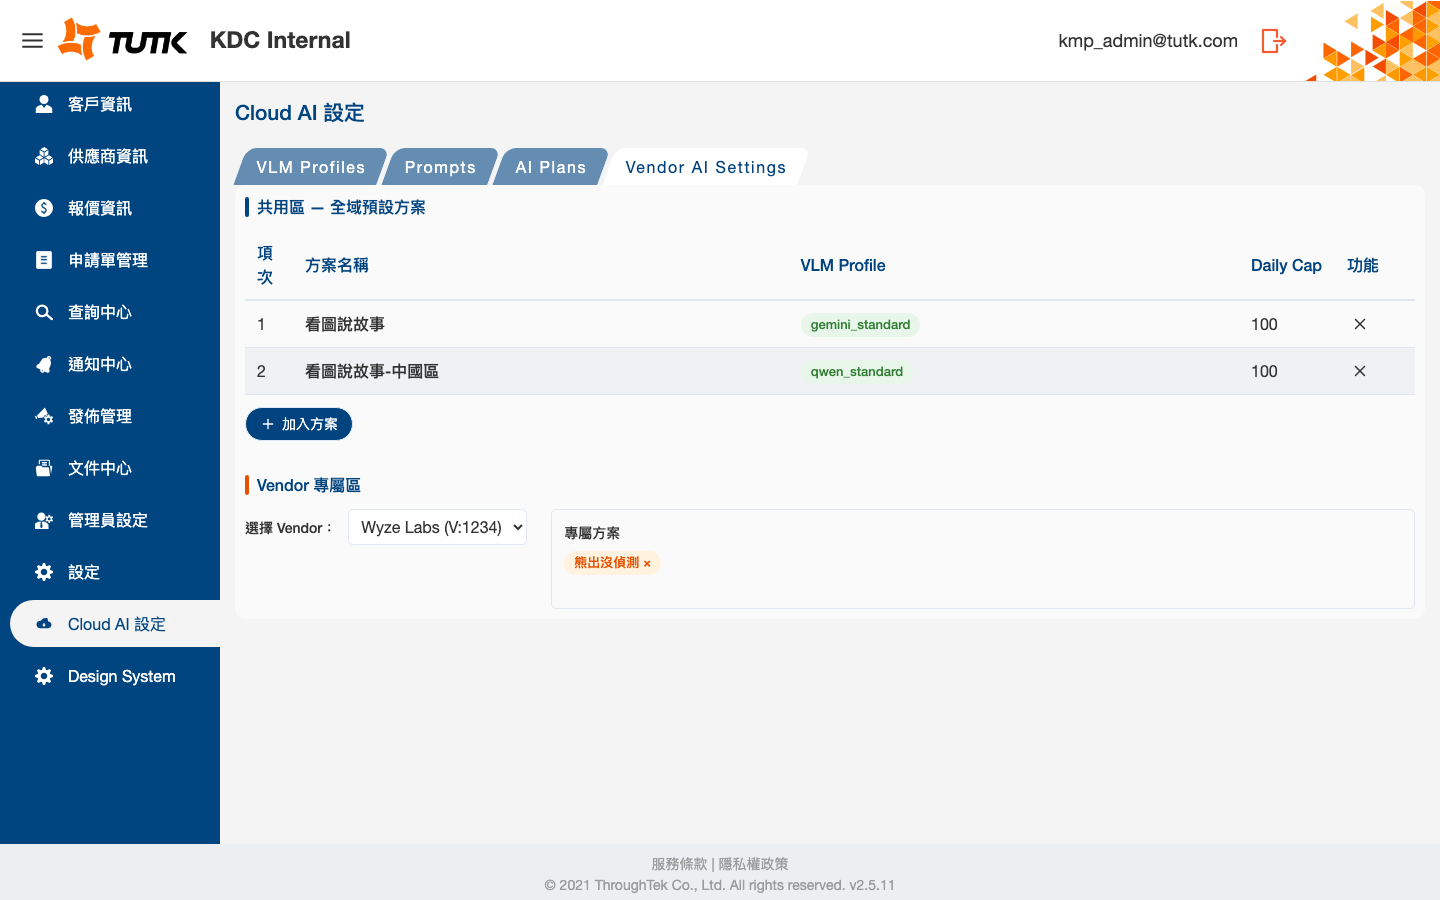
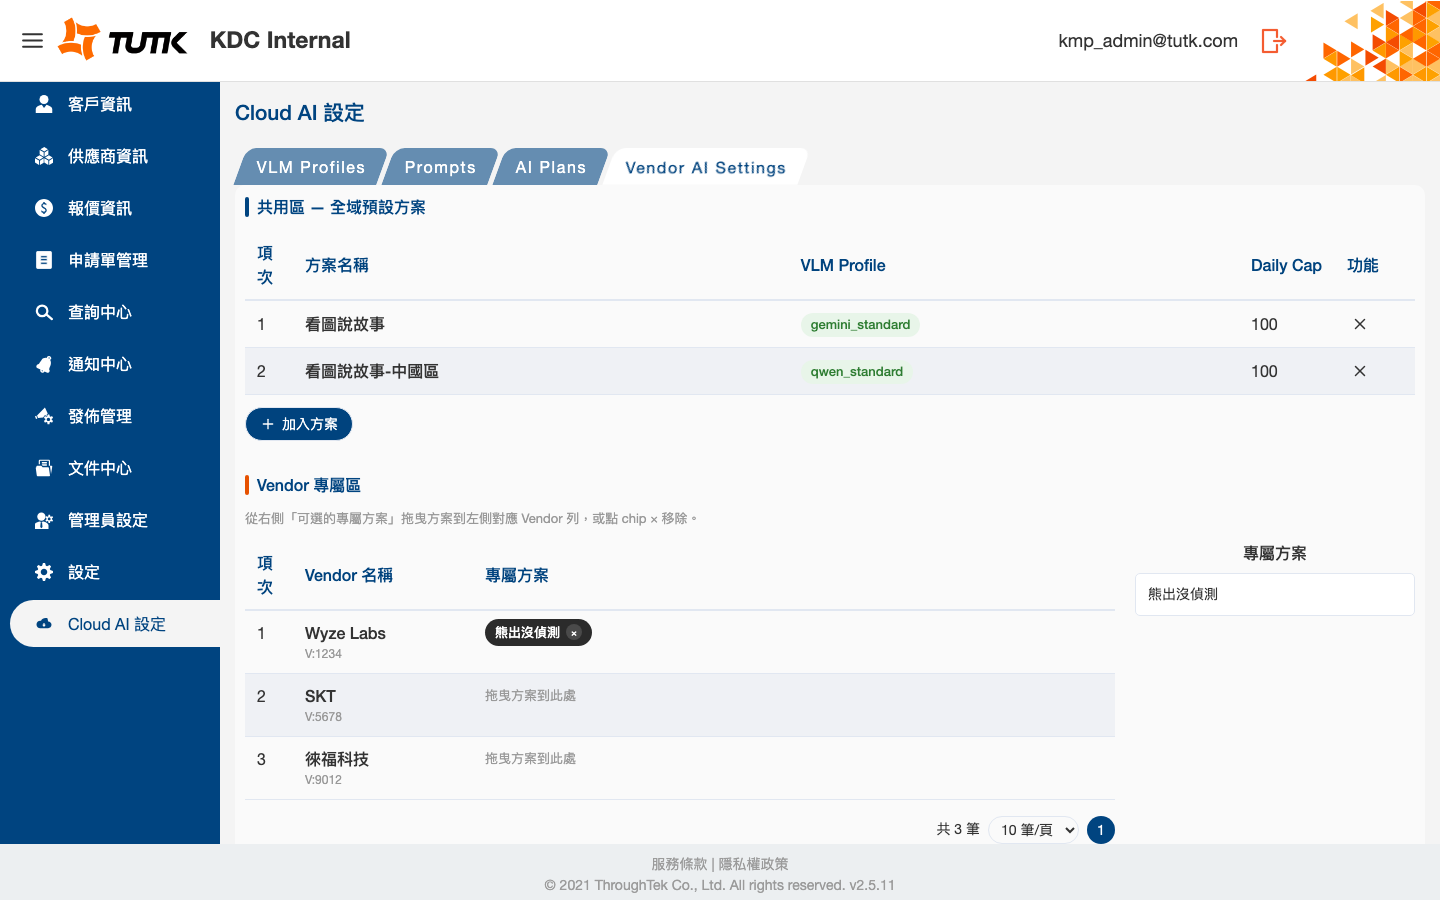
docs(design): v1.6 vendor zone — regenerate frames + add Claude Design update prompt
- Regenerate 8 × 2 figma frames — Vendor AI Settings now shows new layout
- Sync design/attachments/cloud-ai-vendor.png
- DELIVERABLES.md: flag Frame 07 as v1.6
- Add design/ITERATION-V1.6-VENDOR-ZONE.md with Claude Design update prompt

diff --git a/design/ITERATION-V1.6-VENDOR-ZONE.md b/design/ITERATION-V1.6-VENDOR-ZONE.md
@@ -1,0 +1,57 @@
+# Claude Design — v1.6 Vendor 專屬區 frame 更新指令
+
+SPEC v1.6（2026-04-22）對 Vendor AI Settings tab 的「Vendor 專屬區」做了 UI 重構（D-025），對齊 KDC Internal「管理員設定 → 角色管理」介面語彙。此檔案記錄要給 Claude Design 的更新 prompt，使 Frame 07 與 Prototype 同步。
+
+## 更新前請先做
+
+1. 本機執行 `npm run figma:frames` 重新產出 `figma/frames/1440x900/cloud-ai-vendor.png`
+2. 確認 `design/attachments/cloud-ai-vendor.png` 已為最新（本次已同步）
+3. 開啟 https://claude.ai/design/p/843d5a59-6270-4a78-988c-2174e26d9a54
+
+## 送入對話框的 prompt
+
+```
+請依 SPEC v1.6 更新 Frame 07（Cloud AI 設定 — Vendor AI Settings），其他 frame 不動。
+
+變更範圍：只動「Vendor 專屬區」整段，上方「共用區 — 全域預設方案」保持不變。
+
+新 Vendor 專屬區 layout：grid-cols-[1fr_280px]
+
+### 左側（主區）：Vendor 表格
+- 欄位順序：項次 / Vendor 名稱 / 專屬方案
+- 「Vendor 名稱」欄顯示兩行：主名稱（font-medium）+ VID 副標（灰色 12px）
+- 「專屬方案」欄以黑色 chip 呈現（對齊 KDC 管理員設定 → 角色管理的「帳號」chip 樣式）：
+  * 黑底 `#2b2b2b`、白字、圓角 14px、內距 10px/4px
+  * chip 右側帶圓形 × 按鈕（`#4a4a4a` 底、白字、hover `#666`）
+- 未綁定任一 chip 的 vendor 列，該儲存格顯示 placeholder「拖曳方案到此處」（13px 灰字）
+- 沒有「功能」欄位
+- 底部顯示分頁器（共 X 筆 / 10 筆/頁 / 頁碼），目前 3 筆顯示「共 3 筆」
+
+### 右側（側欄，寬 280px，sticky）：可選的專屬方案面板
+- 最上方標題「**專屬方案**」置中（表格標頭字級、深色）
+- 下方單一大框（白底、1px border、圓角 5px）
+- 框內每列只顯示「方案名稱」純文字，列間以細線分隔
+- **不顯示 VLM / Daily Cap 等副標**
+- 內容為所有 AI Plans 扣掉 globalPlans（目前範例只剩「熊出沒偵測」）
+- 每列可拖曳（cursor 顯示 grab / grabbing）
+
+### 操作說明（放在 Vendor 專屬區標題下方，小灰字）
+「從右側『可選的專屬方案』拖曳方案到左側對應 Vendor 列，或點 chip × 移除。」
+
+### drop zone 視覺
+拖曳方案到某 vendor 列時，該列「專屬方案」儲存格以 `#fff3e0` 底 + `2px dashed #e65100` 外框高亮（靜態 frame 可挑一列呈現 drag-over 狀態作為語彙示範，或不畫，皆可）。
+
+附件已更新：
+- design/attachments/cloud-ai-vendor.png（新版 Vendor 專屬區）
+- 參考 Prototype：https://kdc-cloud-ai-config.zeabur.app/cloud-ai → Vendor AI Settings tab
+```
+
+## 期望產出
+
+Frame 07 重生成後，Vendor 專屬區與 Prototype 像素級一致；共用區（上半）及其餘 9 個 frame 保持不變。若 Claude Design 一併更新其他 frame，請手動還原。
+
+## 後續動作
+
+Frame 07 驗證 OK 後：
+1. 匯出新版 PDF（File → Export PDF），覆蓋 `design/deliverables/KDC internal.pdf`
+2. `git add design/` 並 commit

diff --git a/design/DELIVERABLES.md b/design/DELIVERABLES.md
@@ -24,7 +24,7 @@ Handoff bundle for the RD team. Produced via [Claude Design](https://claude.ai/d
 | 04 | Cloud AI 設定 — VLM Profiles | NEW |
 | 05 | Cloud AI 設定 — Prompts | NEW |
 | 06 | Cloud AI 設定 — AI Plans | NEW — **v1.5 重生成**：移除 UDID 欄、編輯 icon 改眼睛、刪除守衛改 Vendor-in-use、Prompts 為快照 |
-| 07 | Cloud AI 設定 — Vendor AI Settings | NEW |
+| 07 | Cloud AI 設定 — Vendor AI Settings | NEW — **v1.6 重生成**：Vendor 專屬區改 KDC 管理員風格（左側 vendor 表格+黑 chip，右側極簡專屬方案面板，drag-drop 新增） |
 | 08 | Design System | reference |
 
 All frames are **editable React components** (not image underlays). The shell (header / sidebar / footer) is a shared `<KdcShell>` component — edits propagate to every frame.
